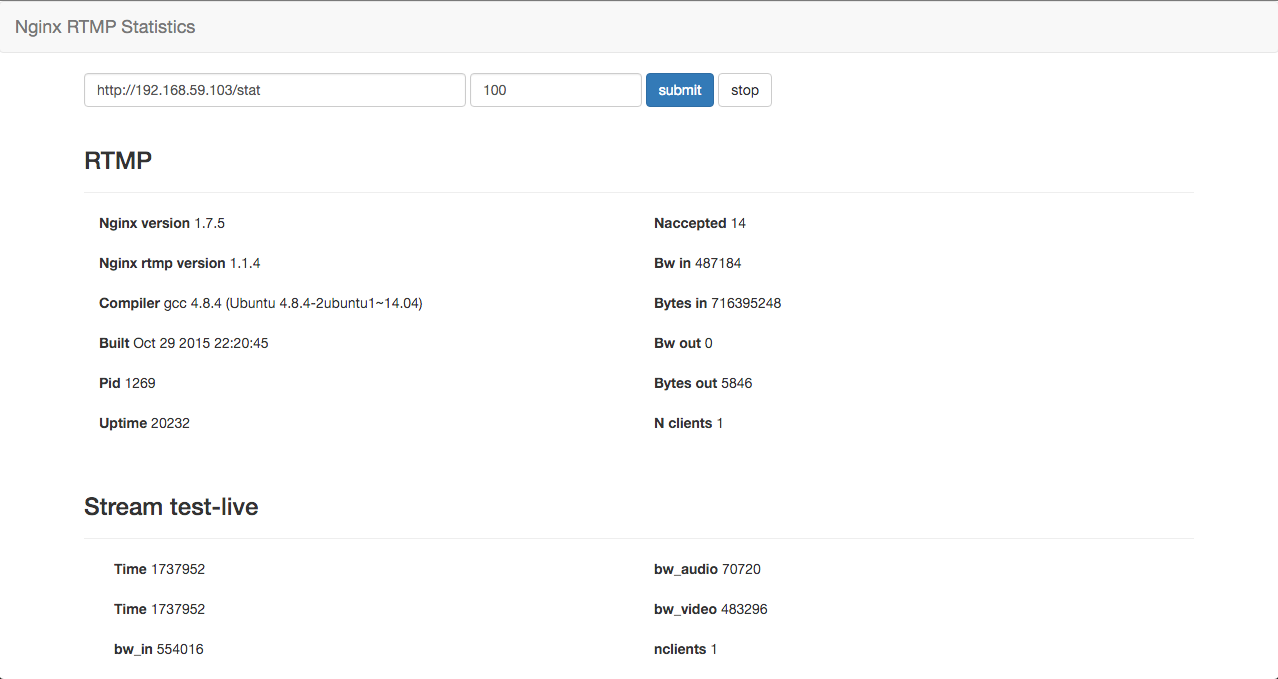
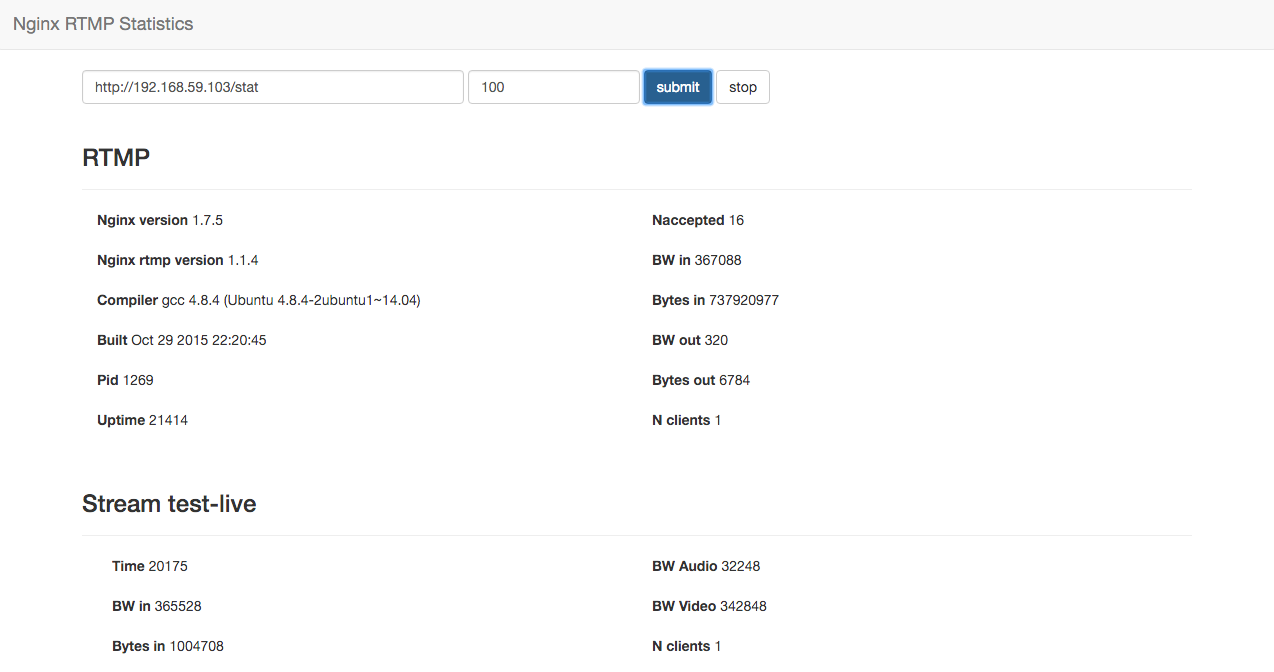
upgrade names

diff --git a/index.html b/index.html
@@ -61,11 +61,11 @@
       <div class="col-md-6">
         <my-article label="Naccepted" value="{{ctrl.rtmp.naccepted._text}}" ></my-article>
 
-        <my-article label="Bw in" value="{{ctrl.rtmp.bw_in._text}}" ></my-article>
+        <my-article label="BW in" value="{{ctrl.rtmp.bw_in._text}}" ></my-article>
 
         <my-article label="Bytes in" value="{{ctrl.rtmp.bytes_in._text}}" ></my-article>
 
-        <my-article label="Bw out" value="{{ctrl.rtmp.bw_out._text}}" ></my-article>
+        <my-article label="BW out" value="{{ctrl.rtmp.bw_out._text}}" ></my-article>
 
         <my-article label="Bytes out" value="{{ctrl.rtmp.bytes_out._text}}" ></my-article>
 
@@ -82,27 +82,25 @@
         <div class="col-md-6">
           <my-article label="Time" value="{{stream.time._text}}" ></my-article>
 
-          <my-article label="Time" value="{{stream.time._text}}" ></my-article>
+          <my-article label="BW in" value="{{stream.bw_in._text}}" ></my-article>
 
-          <my-article label="bw_in" value="{{stream.bw_in._text}}" ></my-article>
+          <my-article label="Bytes in" value="{{stream.bytes_in._text}}" ></my-article>
 
-          <my-article label="bytes_in" value="{{stream.bytes_in._text}}" ></my-article>
+          <my-article label="BW out" value="{{stream.bw_out._text}}" ></my-article>
 
-          <my-article label="bw_out" value="{{stream.bw_out._text}}" ></my-article>
-
-          <my-article label="bytes_out" value="{{stream.bytes_out._text}}" ></my-article>
+          <my-article label="Bytes out" value="{{stream.bytes_out._text}}" ></my-article>
         </div>
 
         <div class="col-md-6">
-          <my-article label="bw_audio" value="{{stream.bw_audio._text}}" ></my-article>
+          <my-article label="BW Audio" value="{{stream.bw_audio._text}}" ></my-article>
 
-          <my-article label="bw_video" value="{{stream.bw_video._text}}" ></my-article>
+          <my-article label="BW Video" value="{{stream.bw_video._text}}" ></my-article>
 
-          <my-article label="nclients" value="{{stream.nclients._text}}" ></my-article>
+          <my-article label="N clients" value="{{stream.nclients._text}}" ></my-article>
 
-          <my-article label="publishing" value="{{stream.publishing._text}}" ></my-article>
+          <my-article label="Publishing" value="{{stream.publishing._text}}" ></my-article>
 
-          <my-article label="active" value="{{stream.active._text}}" ></my-article>
+          <my-article label="Active" value="{{stream.active._text}}" ></my-article>
         </div>
       </section>
 
@@ -114,25 +112,23 @@
 
           <div class="col-md-12">
             <div class="col-md-6">
-              <my-article label="address" value="{{client.address._text}}" ></my-article>
+              <my-article label="Address" value="{{client.address._text}}" ></my-article>
 
-              <my-article label="time" value="{{client.time._text}}" ></my-article>
+              <my-article label="Time" value="{{client.time._text}}" ></my-article>
 
-              <my-article label="time" value="{{client.time._text}}" ></my-article>
+              <my-article label="Flashver" value="{{client.flashver._text}}" ></my-article>
 
-              <my-article label="flashver" value="{{client.flashver._text}}" ></my-article>
-
-              <my-article label="dropped" value="{{client.dropped._text}}" ></my-article>
+              <my-article label="Dropped" value="{{client.dropped._text}}" ></my-article>
             </div>
 
             <div class="col-md-6">
-              <my-article label="avsync" value="{{client.avsync._text}}" ></my-article>
+              <my-article label="Avsync" value="{{client.avsync._text}}" ></my-article>
 
-              <my-article label="timestamp" value="{{client.timestamp._text}}" ></my-article>
+              <my-article label="Timestamp" value="{{client.timestamp._text}}" ></my-article>
 
-              <my-article label="publishing" value="{{client.publishing._text}}" ></my-article>
+              <my-article label="Publishing" value="{{client.publishing._text}}" ></my-article>
 
-              <my-article label="active" value="{{client.active._text}}" ></my-article>
+              <my-article label="Active" value="{{client.active._text}}" ></my-article>
             </div>
           </div>
         </article>
@@ -150,21 +146,21 @@
 
           <div class="col-md-12">
             <div class="col-md-6">
-              <my-article label="width" value="{{stream.meta.video.width._text}}" ></my-article>
+              <my-article label="Width" value="{{stream.meta.video.width._text}}" ></my-article>
 
-              <my-article label="height" value="{{stream.meta.video.height._text}}" ></my-article>
+              <my-article label="Height" value="{{stream.meta.video.height._text}}" ></my-article>
 
-              <my-article label="frame_rate" value="{{stream.meta.video.frame_rate._text}}" ></my-article>
+              <my-article label="Frame rate" value="{{stream.meta.video.frame_rate._text}}" ></my-article>
 
-              <my-article label="codec" value="{{stream.meta.video.codec._text}}" ></my-article>
+              <my-article label="Codec" value="{{stream.meta.video.codec._text}}" ></my-article>
             </div>
 
             <div class="col-md-6">
-              <my-article label="profile" value="{{stream.meta.video.profile._text}}" ></my-article>
+              <my-article label="Profile" value="{{stream.meta.video.profile._text}}" ></my-article>
 
-              <my-article label="compat" value="{{stream.meta.video.compat._text}}" ></my-article>
+              <my-article label="Compat" value="{{stream.meta.video.compat._text}}" ></my-article>
 
-              <my-article label="level" value="{{stream.meta.video.level._text}}" ></my-article>
+              <my-article label="Level" value="{{stream.meta.video.level._text}}" ></my-article>
             </div>
           </div>
         </article>
@@ -175,7 +171,7 @@
           </header>
 
           <div class="col-md-12">
-            <my-article label="codec" value="{{stream.meta.audio.codec._text}}" ></my-article>
+            <my-article label="Codec" value="{{stream.meta.audio.codec._text}}" ></my-article>
           </div>
         </article>
 
